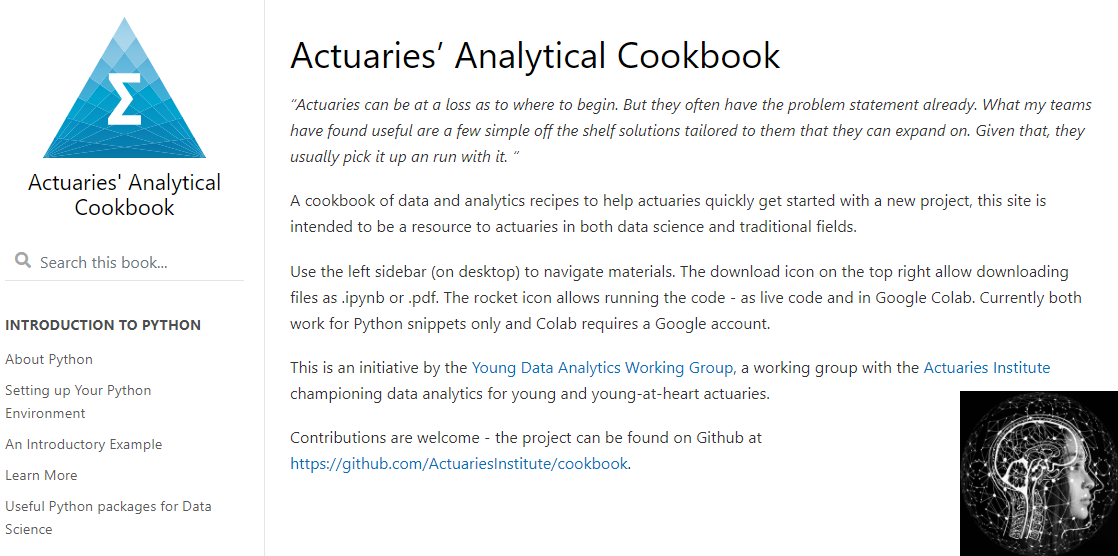
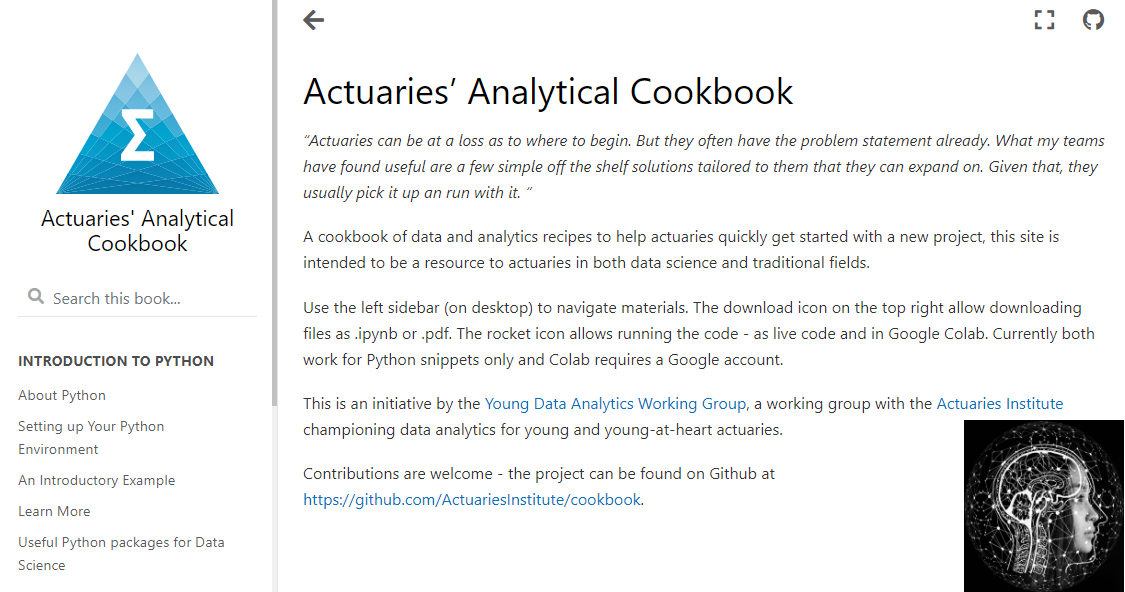
Update

diff --git a/docs/posts/20211124 actuaries_cookbook/index.html b/docs/posts/20211124 actuaries_cookbook/index.html
@@ -104,8 +104,8 @@ code span.wa { color: #5e5e5e; font-style: italic; } /* Warning */
 <meta property="og:description" content="I have collaborated with members of the Actuaries Institute of Australia on this &#39;Actuaries Analytical Cookbook&#39;. It spawned from the idea of sharing recipes to help actuaries and data scientists get started quickly on new projects."/>
 <meta property="og:url" content="https://pat-reen.github.io/More-Modelling-Recipes/posts/20211124 actuaries_cookbook/"/>
 <meta property="og:image" content="https://pat-reen.github.io/More-Modelling-Recipes/posts/20211124 actuaries_cookbook/img/prev_actuaries_cookbook.png"/>
-<meta property="og:image:width" content="1118"/>
-<meta property="og:image:height" content="556"/>
+<meta property="og:image:width" content="1125"/>
+<meta property="og:image:height" content="592"/>
 <meta property="og:locale" content="en_US"/>
 <meta property="og:site_name" content="More recipes"/>
 
@@ -115,8 +115,8 @@ code span.wa { color: #5e5e5e; font-style: italic; } /* Warning */
 <meta property="twitter:description" content="I have collaborated with members of the Actuaries Institute of Australia on this &#39;Actuaries Analytical Cookbook&#39;. It spawned from the idea of sharing recipes to help actuaries and data scientists get started quickly on new projects."/>
 <meta property="twitter:url" content="https://pat-reen.github.io/More-Modelling-Recipes/posts/20211124 actuaries_cookbook/"/>
 <meta property="twitter:image" content="https://pat-reen.github.io/More-Modelling-Recipes/posts/20211124 actuaries_cookbook/img/prev_actuaries_cookbook.png"/>
-<meta property="twitter:image:width" content="1118"/>
-<meta property="twitter:image:height" content="556"/>
+<meta property="twitter:image:width" content="1125"/>
+<meta property="twitter:image:height" content="592"/>
 
 <!--/radix_placeholder_meta_tags-->
   <!--radix_placeholder_rmarkdown_metadata-->
